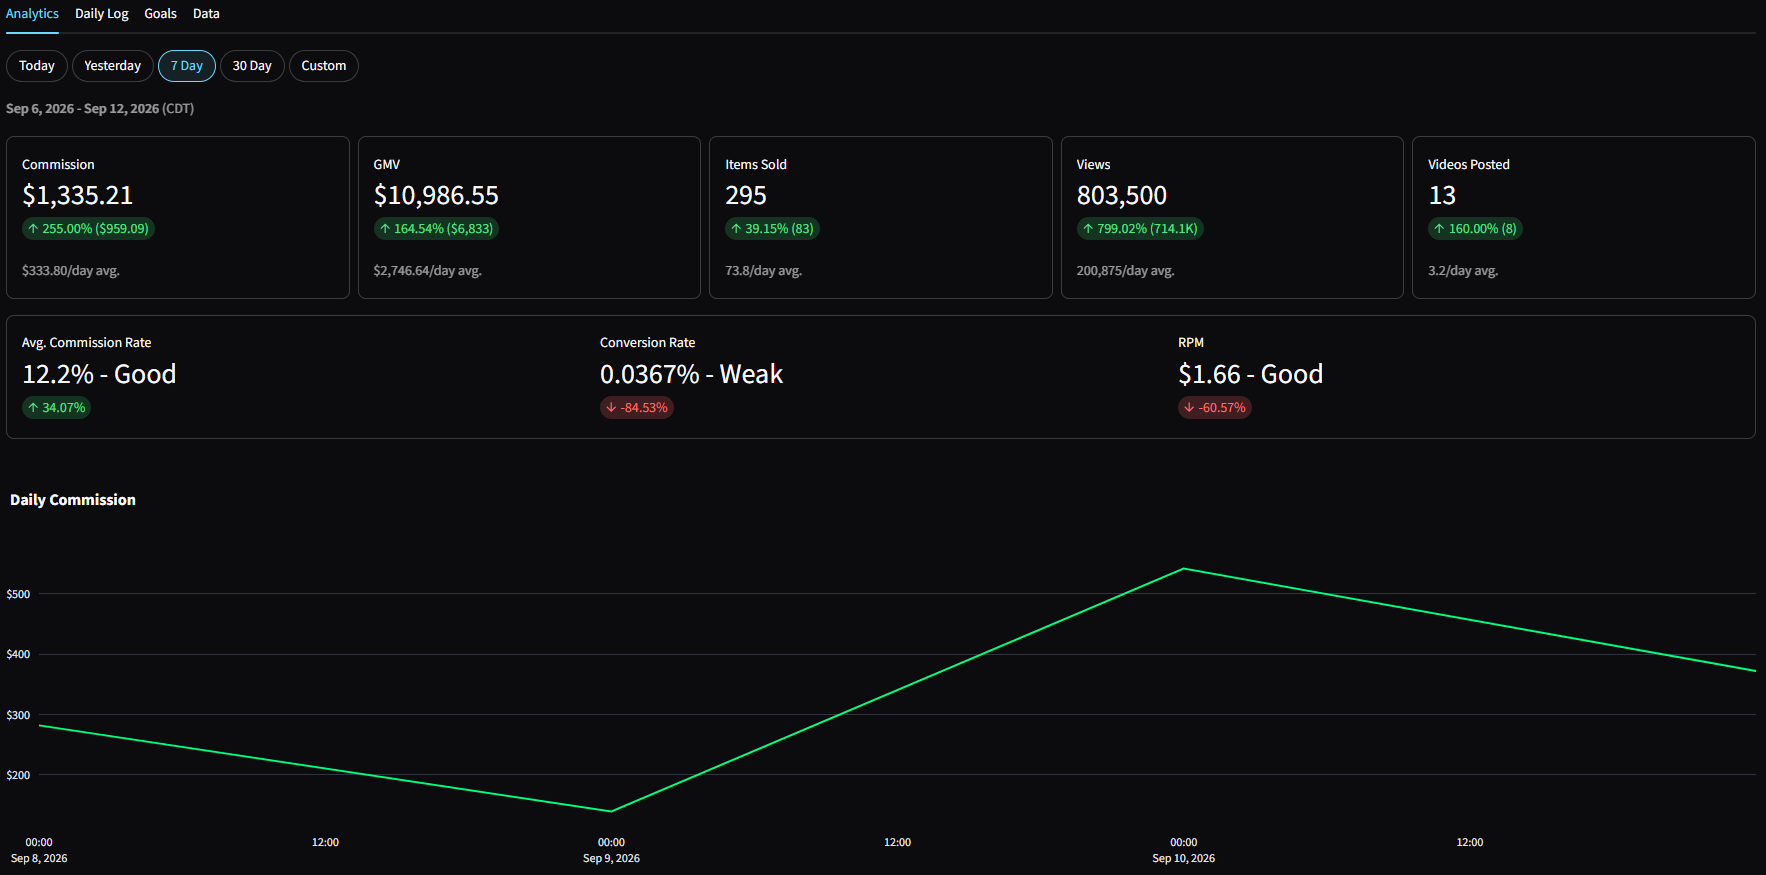
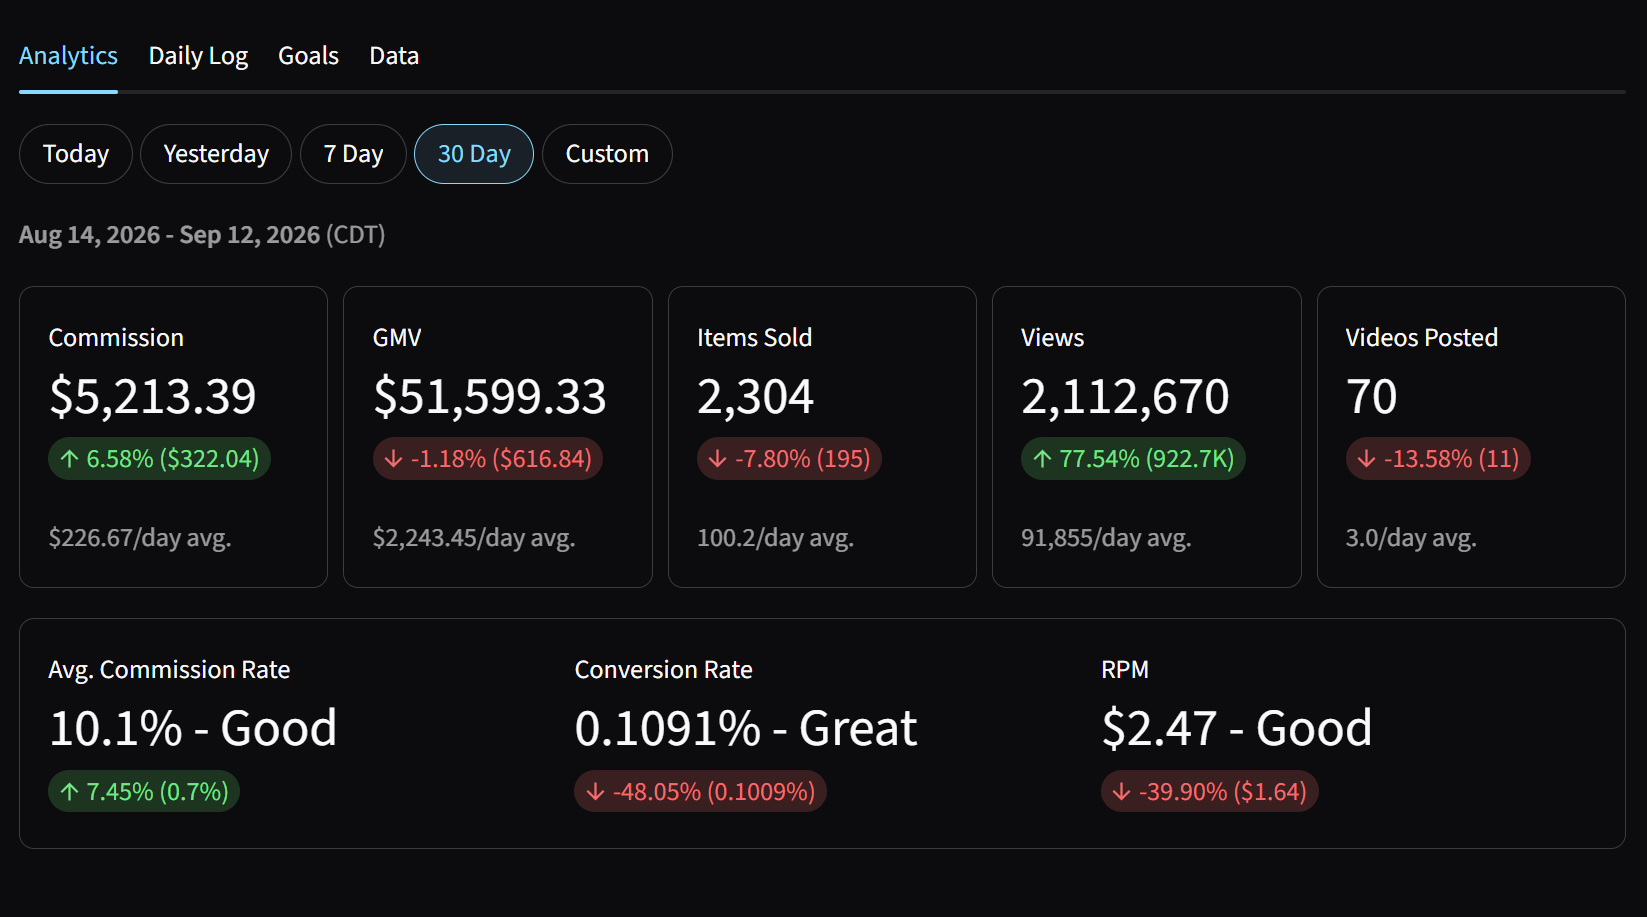
Update landing page UI

diff --git a/app.py b/app.py
@@ -38,9 +38,9 @@ try:
     if not st.user.is_logged_in and not st.session_state.get('demo_mode', False):
         st.title('ZODIF', anchor=False, text_alignment='center')
 
-        st.markdown('#### Analytics for TikTok Shop creators.', anchors=False, text_alignment='center')
+        st.markdown('#### Analytics for TikTok Shop creators', anchors=False, text_alignment='center')
 
-        st.markdown('##### Track and analyze your affiliate performance data.', anchors=False, text_alignment='center')
+        st.markdown('##### Track and analyze your affiliate performance data', anchors=False, text_alignment='center')
 
         st.space()
 
@@ -49,13 +49,14 @@ try:
         if flex.button('Sign in with Google', icon=':material/login:'):
             st.login()
         
-        if flex.button('Try Demo', help='Explore Zodif with sample data'):
+        if flex.button('Try Demo', icon=':material/visibility:', help='Explore Zodif with sample data'):
             st.session_state.demo_mode = True
             st.rerun()
 
         st.space()
 
         st.image('images/screenshot.png', output_format='PNG')
+        st.image('images/screenshot2.png', output_format='PNG')
 
         st.markdown("""
         <style>
@@ -90,6 +91,7 @@ try:
     # side bar
     st.sidebar.title('Creator Analytics')
     if not st.session_state.get('demo_mode', False):
+        st.title('ZODIF', anchor=False)
         st.sidebar.write(f'Logged in as {st.user.name}')
         st.sidebar.write(f'Email: {st.user.email}')
         st.sidebar.space()
